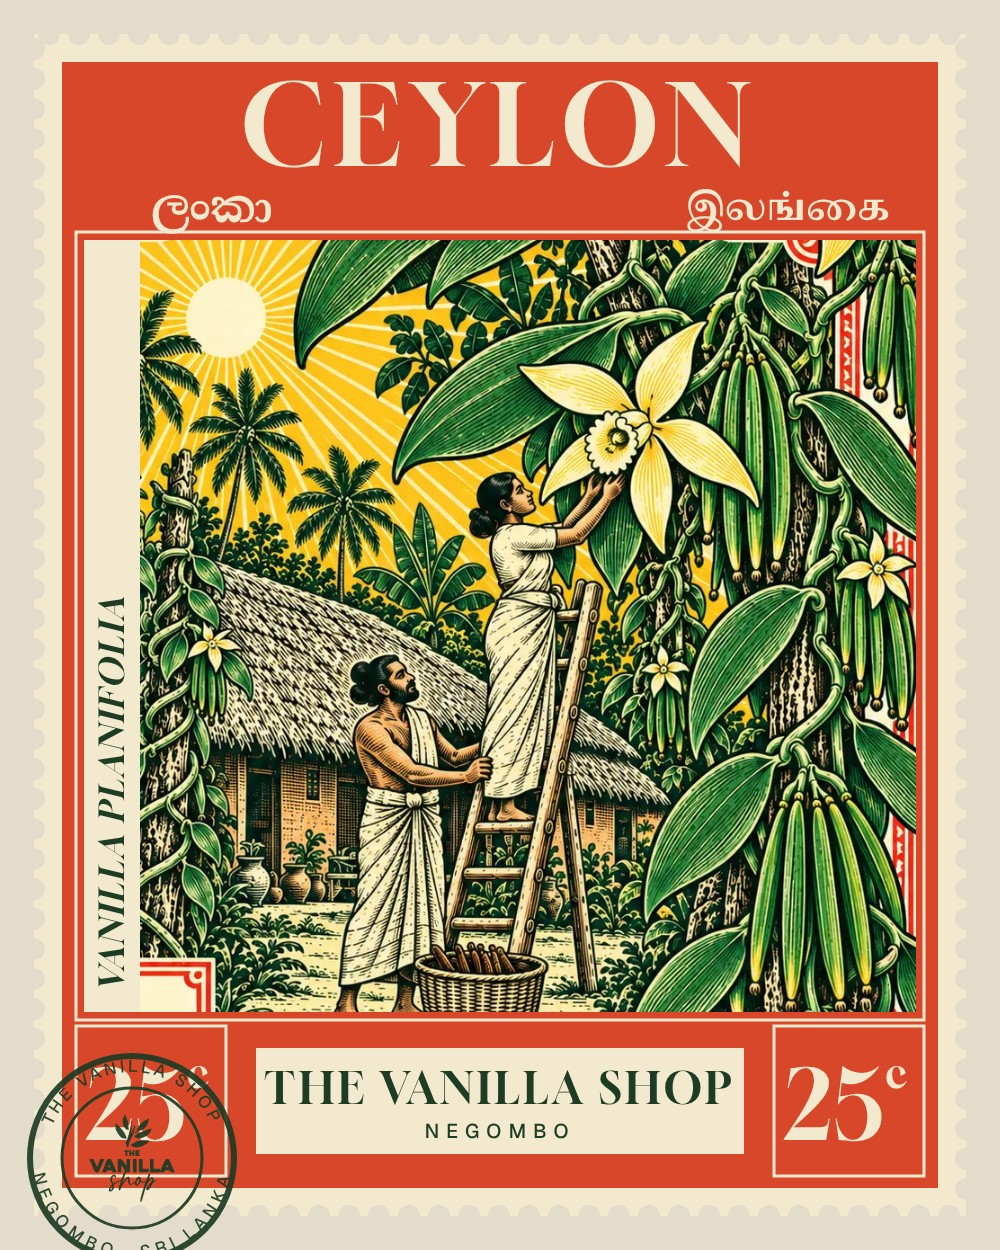
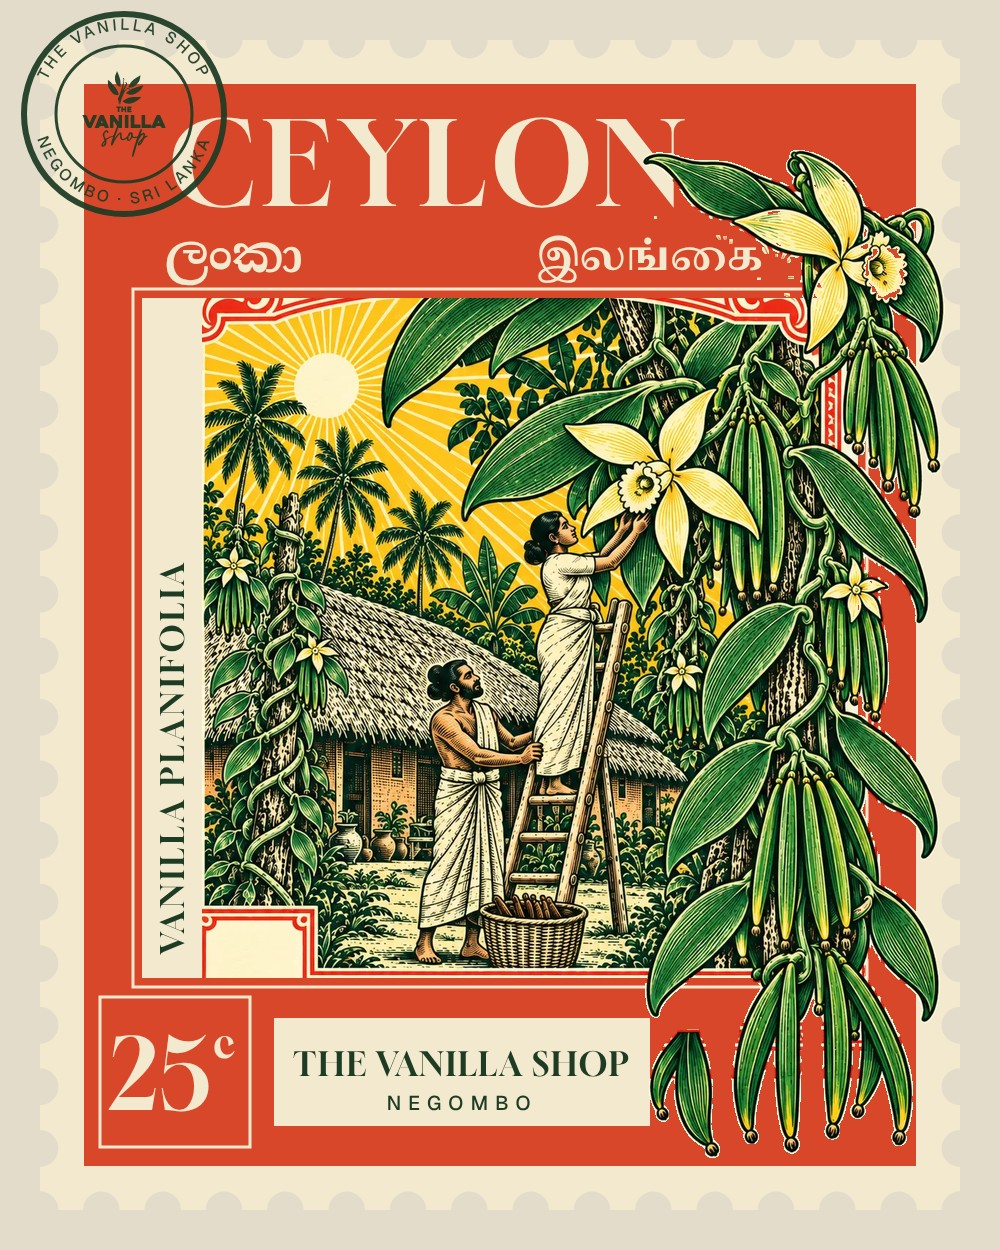
Tote stamp layout: real Ceylon stamp proportions, vine breakout kept
Fifteen large perforation teeth across, paper margin, a heavy frame with a deep
top band, one value tablet, and the vine growing out over the frame and edge.

Claude-Session: https://claude.ai/code/session_01Psd6wLDi15Gf4F1fXEFmxS

diff --git a/vanilla-shop/studies/tote/prompts-B-3ink.md b/vanilla-shop/studies/tote/prompts-B-3ink.md
@@ -2,7 +2,7 @@
 
 Attach `stamp-3ink-references.jpg`:
 1. Our current stamp (the scene to keep).
-2. The layout guide: grey is the picture, red bands and cream boxes stay empty.
+2. The layout guide: grey is the picture, red bands and cream boxes stay empty, dark green marks the vine breaking out.
 3–6. Ceylon stamps from the Pinterest board (Kandyan Dancer 4c, Star Orchid 35c, Vesak Orchid 15c, Adam's Peak 10c).
 
 `stamp-3ink-layout-preview.jpg` shows how the lettering will sit, using the current art as a stand-in.
@@ -32,17 +32,24 @@ Exactly three flat inks on a warm cream paper ground, like a stamp printed in a 
 Tones come from hatching density, not from new colours. Leaves are green hatching over cream, not a second green.
 No gradients, no halftone dots, no other colours.
 
-Layout (reference 2):
-- A toothed, perforated paper edge all round, with a narrow cream paper margin inside it.
-- A solid vermilion frame. Across the top, a deep plain vermilion band, about a seventh of the stamp's height,
-  completely empty: no ornament, no letters.
-- The picture sits in a window below the band, with a fine cream rule round it.
+Layout (reference 2), with the proportions of the real Ceylon stamps in references 3 to 6:
+- Perforations: about 15 large, deep, round teeth across the top and bottom and about 19 down each side, evenly
+  spaced, with clean corners, as on references 3 to 6. Not a fine, busy edge.
+- A clear cream paper margin between the teeth and the frame.
+- A wide, solid vermilion frame that is a big part of the design. Across the top, a deep plain band about a sixth
+  of the stamp's height. Side bars about a sixteenth of the width. Across the bottom, a deep band about a seventh
+  of the height. All of it plain and empty: no ornament, no letters.
+- The picture sits in a window inside the frame, with a fine cream rule round it.
 - Down the window's left edge, a narrow plain cream strip, completely empty.
-- Across the bottom, a plain vermilion band holding a square value tablet in each corner, outlined by a fine cream
-  rule and empty inside, and between them a plain cream caption box, completely empty.
-- The vine breaks out of the window: leaves and a flower curl over the right side of the red frame and over the
-  perforated edge at the top right, and two pod bunches hang down over the bottom band at the right. Everything
-  else stays inside the window.
+- In the bottom band: one square value tablet in the bottom-left corner, outlined by a fine cream rule and empty
+  inside, and next to it a plain cream caption box running about two-thirds of the way across, completely empty.
+  The bottom-right corner of the band is left plain for the vine to hang over.
+- The vine breaks out of the stamp, as in reference 1, and this is the most important part. It is big, about a
+  third of the stamp's width. It climbs up the right side of the picture and grows out over the right frame bar,
+  across the top-right corner and past the perforated edge into the space beyond. Large leaves and a flower spill
+  over the outside. Long pod bunches hang down over the bottom-right of the frame and below the stamp's bottom edge.
+  The dark green shape in reference 2 only marks where the vine goes: draw it as the detailed vine from
+  reference 1.
 
 There must be no letters, numbers or symbols anywhere: the red bands, tablets, caption box and left strip stay
 plain and empty, because the lettering is added afterwards. Keep every line thick enough to screen print at 27 cm
@@ -52,8 +59,8 @@ wide.
 
 - Top band: CEYLON in large cream letters, with ලංකා on the left and இலங்கை on the right beneath it.
 - Left strip: VANILLA PLANIFOLIA, reading upwards.
-- Tablets: 25c in each, in cream.
+- Tablet: 25c, in cream.
 - Caption box: THE VANILLA SHOP, with NEGOMBO beneath.
-- Postmark over the bottom-left corner: the logo with THE VANILLA SHOP / NEGOMBO · SRI LANKA round it.
+- Postmark over the top-left corner, clear of the vine: the logo with THE VANILLA SHOP / NEGOMBO · SRI LANKA round it.
 
 Then it is separated into three films: green, vermilion and marigold.
